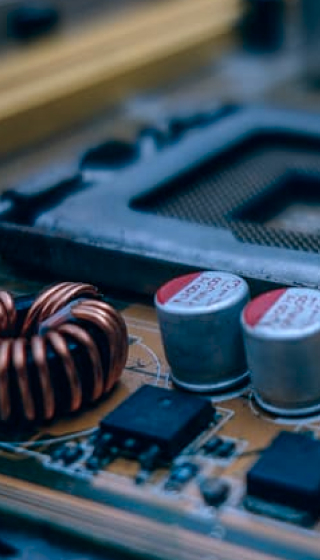
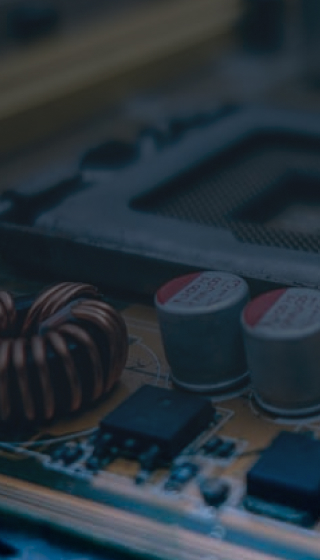
Добавлен главный экран для десктопной версии

diff --git a/source/sass/blocks/promo.scss b/source/sass/blocks/promo.scss
@@ -1,0 +1,61 @@
+@import "./variables.scss";
+
+.promo {
+  min-height: 640px;
+  max-height: 880px;
+
+  // height: 880px;
+
+  background: $color-default-black url("../img/backgrounds/bg-image-promo-desktop.jpg") no-repeat bottom;
+  background-size: cover;
+}
+
+.promo__wrapper {
+  max-width: 1220px;
+  margin: 15% auto 16% auto;
+  padding: 0 75px;
+}
+
+.promo__container {
+  margin-left: 10%;
+}
+
+.promo h2 {
+  margin: 0;
+  padding-bottom: 40px;
+
+  font-weight: 700;
+  font-size: 80px;
+  line-height: 94px;
+  color: $color-default-white;
+  letter-spacing: 0.07em;
+
+  text-transform: uppercase;
+}
+
+.promo p {
+  max-width: 685px;
+  margin: 0;
+  padding-bottom: 40px;
+
+  font-family: $ff-ptmono;
+  font-weight: 400;
+  font-size: 22px;
+  line-height: 34px;
+  color: $color-default-white;
+}
+
+.promo a {
+  margin: 0;
+  padding: 15px 25px;
+
+  font-weight: 700;
+  font-size: 18px;
+  line-height: 21px;
+  color: $color-default-white;
+  letter-spacing: 0.05em;
+
+  text-transform: uppercase;
+  background-color: $color-deep-sky-blue;
+  border-radius: 3px;
+}

diff --git a/source/index.html b/source/index.html
@@ -57,10 +57,19 @@
         </div>
       </header>
 
-      <main>
-        <div class="container">
+      <main class="main-container">
+        <section class="promo">
+          <div class="promo__wrapper">
+            <div class="promo__container">
+              <h2 class="promo__heading">Печатные платы</h2>
+              <p class="promo__text">производство и монтаж, поставка комплектующих, блоков и модулей</p>
+              <a class="promo__link btn" href="#" aria-label="Перейти в раздел заполнения формы вопроса.">Получить бесплатную консультацию</a>
+            </div>
+          </div>
+        </section>
 
-        </div>
+
+
       </main>
 
       <footer>

diff --git a/source/sass/blocks/main-header.scss b/source/sass/blocks/main-header.scss
@@ -1,6 +1,8 @@
 @import "./variables.scss";
 
 .main-header {
+  position: fixed;
+  width: 100%;
   min-width: 320px;
   padding: 30px 0 35px 0;
 
@@ -83,15 +85,18 @@
     height: 40px;
     margin-right: 20px;
   }
+}
 
+.main-header__phone-wrapper {
   @media (max-width: $vp-767) {
-    margin-right: 15px;
+    margin-right: 10px;
   }
 }
 
 .main-header__email-link,
 .main-header__phone-link {
   display: flex;
+  justify-content: center;
   align-items: center;
   column-gap: 15px;
 

diff --git a/source/sass/style.scss b/source/sass/style.scss
@@ -19,6 +19,8 @@
 // ---------------------------------
 @import "blocks/main-header";
 @import "blocks/logo-header";
+@import "blocks/main-container";
+@import "blocks/promo";
 @import "blocks/btn";
 @import "blocks/modal";
 

diff --git a/source/sass/blocks/main-container.scss b/source/sass/blocks/main-container.scss
@@ -1,0 +1,5 @@
+@import "./variables.scss";
+
+.main-container {
+  display: contents;
+}
